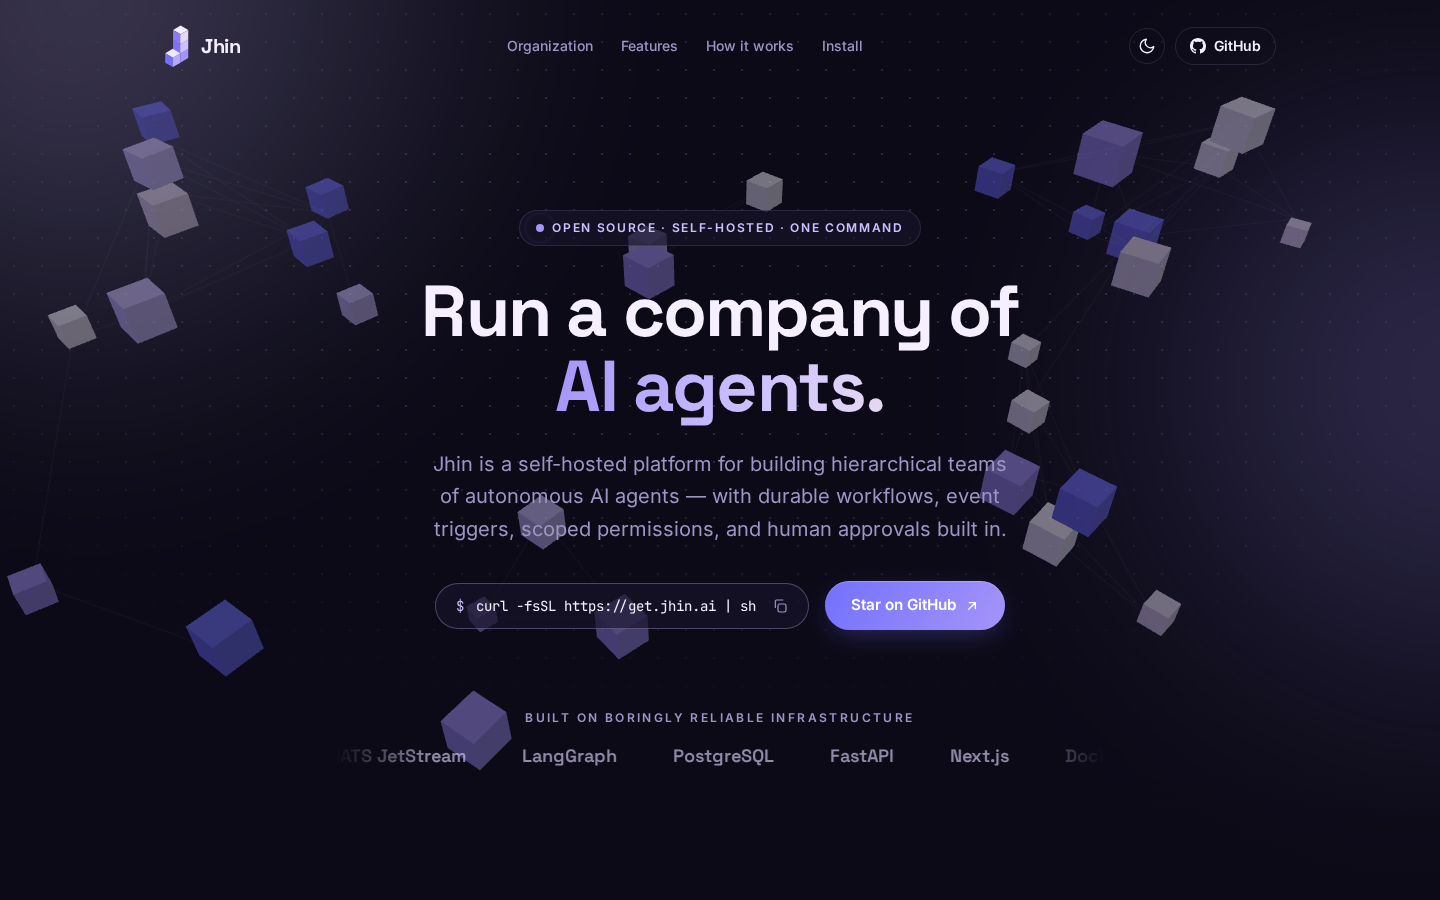
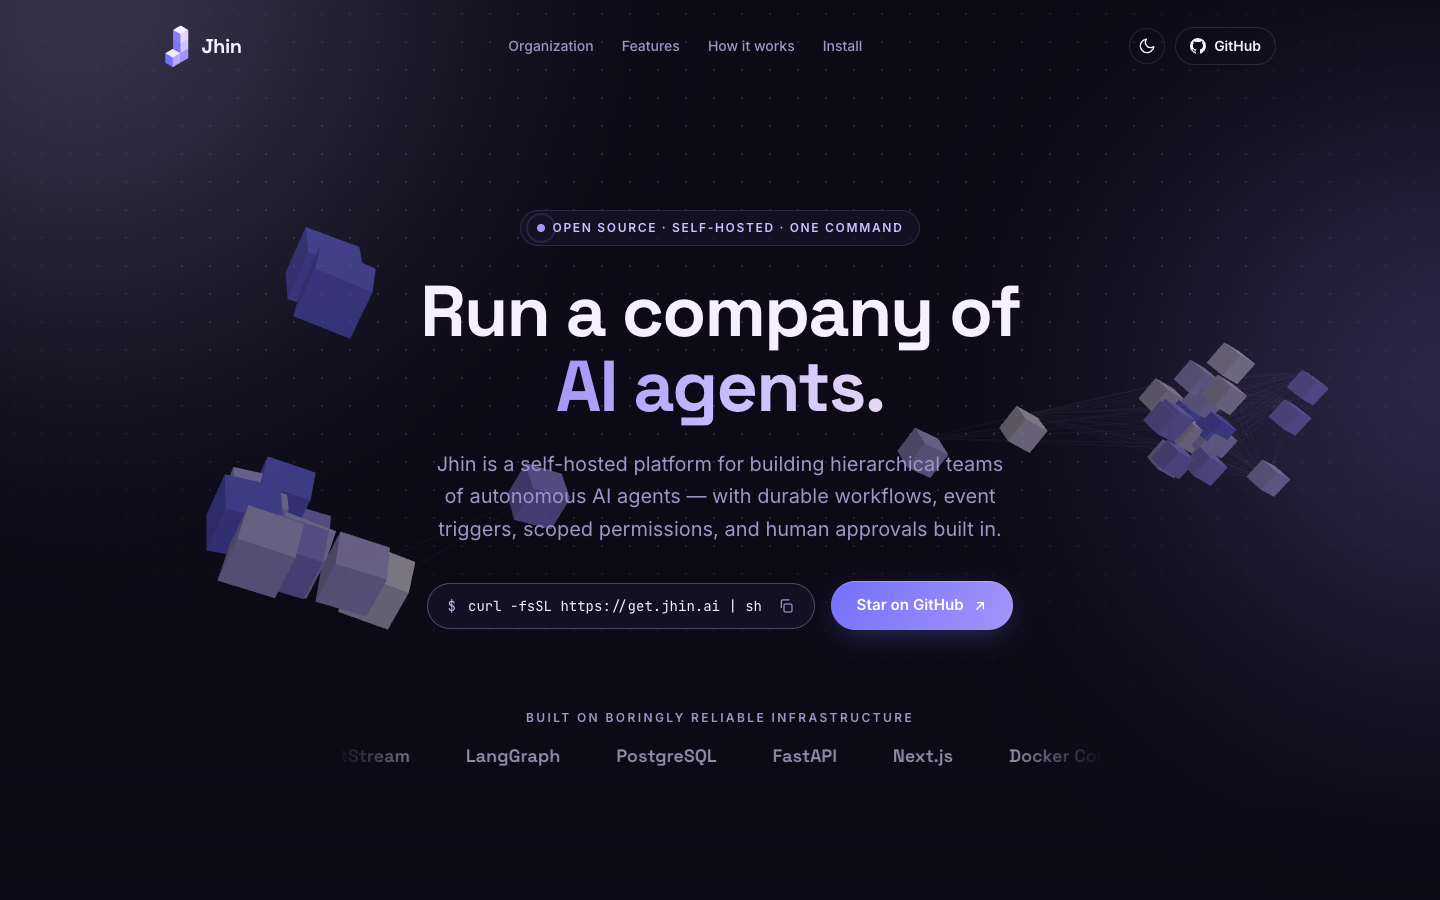
Update repo links to jhinhq org, refresh README copy and screenshots
- Point clone URL, project-repo link, and the site's GITHUB_URL at the
  new jhinhq organization (jhinhq/Jhin-Landing, jhinhq/Jhin)
- Describe the new anamorphic hero reveal in the README highlights and
  project structure
- Regenerate all three screenshots: hero light/dark now show the
  anamorphic constellation, org chart shows the improved layout

diff --git a/lib/site.ts b/lib/site.ts
@@ -1,2 +1,2 @@
-export const GITHUB_URL = "https://github.com/jhin-ai/jhin";
+export const GITHUB_URL = "https://github.com/jhinhq/Jhin";
 export const INSTALL_CMD = "curl -fsSL https://get.jhin.ai | sh";

diff --git a/README.md b/README.md
@@ -10,7 +10,7 @@
 
 <p align="center">
   <a href="https://jhin.ai">jhin.ai</a> ·
-  <a href="https://github.com/jhin-ai/jhin">Jhin project repo</a>
+  <a href="https://github.com/jhinhq/Jhin">Jhin project repo</a>
 </p>
 
 <p align="center">
@@ -36,13 +36,13 @@ This repo contains only the landing page for Jhin — a single, fully static Nex
 
 ## Page highlights
 
-- **Scroll-assembled hero** — a Three.js constellation of 32 floating isometric cubes that flies together into the Jhin tetris-J as you scroll, scrubbed to scroll position and fully reversible
+- **Anamorphic hero reveal** — a Three.js constellation of 32 isometric cubes, each secretly parked along the sight-line its voxel occupies from one reveal angle; scrolling swings the camera around until the scatter lines up into the Jhin tetris-J, scrubbed to scroll position and fully reversible
 - **Org chart scroll story** — a pinned section where an example organization (Engineering, Marketing, Support, Data) assembles department by department; every node is tappable and shows that agent's granted/denied permissions
 - **Interactive logo** — hover the nav logo and the J breaks into its four cubes and reassembles
 - **Animated install terminal** — types out the install command and simulated output when scrolled into view
 - **Dark & light themes** — follows system preference with a manual toggle; the WebGL scene, terminal, and all surfaces adapt
 - **Fully static** — no server-side logic, deployable anywhere
-- **Accessible motion** — every animation (including the hero pin and WebGL assembly) is disabled or simplified under `prefers-reduced-motion`
+- **Accessible motion** — every animation (including the hero pin and WebGL reveal) is disabled or simplified under `prefers-reduced-motion`; reduced-motion users see the assembled J statically
 
 <p align="center">
   <img src="docs/org-chart.png" alt="Interactive org chart section" width="90%" />
@@ -63,7 +63,7 @@ This repo contains only the landing page for Jhin — a single, fully static Nex
 Requires Node.js 20+.
 
 ```bash
-git clone https://github.com/Teachmetech/Jhin-Landing.git
+git clone https://github.com/jhinhq/Jhin-Landing.git
 cd Jhin-Landing
 npm install
 npm run dev
@@ -88,7 +88,7 @@ app/
   icon.svg          # favicon (square-cropped logo)
 components/
   Hero.tsx          # sticky 2-screen hero, copy fade-out on scroll
-  HeroScene.tsx     # Three.js scene + scroll-driven voxel-J assembly
+  HeroScene.tsx     # Three.js scene + scroll-driven anamorphic J reveal
   OrgChart.tsx      # pinned scroll story, scale-to-fit tree, detail panel
   Workflow.tsx      # ticket-to-merge timeline with scrubbed progress rail
   Install.tsx       # animated terminal + install CTA
